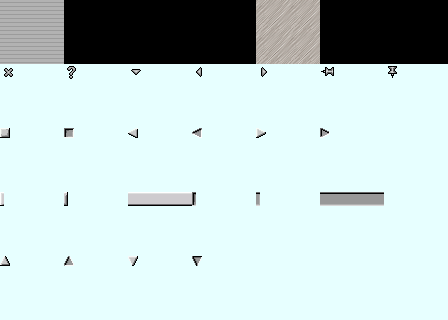
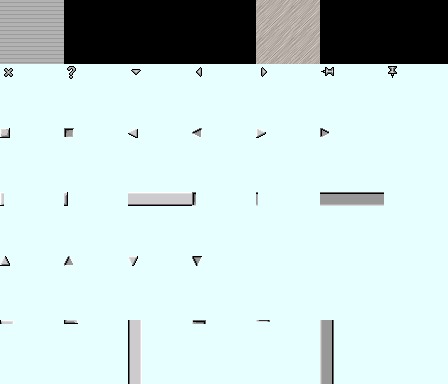
ADD: skinnable scrollbars
git-svn-id: svn://localhost/simutrans/trunk@3466 8aca7d54-2c30-db11-9de9-000461428c89

diff --git a/gui/components/gui_button.cc b/gui/components/gui_button.cc
@@ -64,6 +64,24 @@ image_id button_t::b_cap_left_p = IMG_LEER;
 image_id button_t::b_body_p = IMG_LEER;
 image_id button_t::b_cap_right_p = IMG_LEER;
 
+// these are optional: scrollbar ids
+image_id button_t::scrollbar_left = IMG_LEER;
+image_id button_t::scrollbar_right = IMG_LEER;
+image_id button_t::scrollbar_middle = IMG_LEER;
+
+image_id button_t::scrollbar_slider_left = IMG_LEER;
+image_id button_t::scrollbar_slider_right = IMG_LEER;
+image_id button_t::scrollbar_slider_middle = IMG_LEER;
+
+// these are optional: ... and scrollbars vertical
+image_id button_t::scrollbar_top = IMG_LEER;
+image_id button_t::scrollbar_bottom = IMG_LEER;
+image_id button_t::scrollbar_center = IMG_LEER;
+
+image_id button_t::scrollbar_slider_top = IMG_LEER;
+image_id button_t::scrollbar_slider_bottom = IMG_LEER;
+image_id button_t::scrollbar_slider_center = IMG_LEER;
+
 
 /**
  * Lazy button image number init
@@ -95,6 +113,23 @@ void button_t::init_button_images()
 
 		arrow_down_normal = skinverwaltung_t::window_skin->get_bild_nr(20);
 		arrow_down_pushed = skinverwaltung_t::window_skin->get_bild_nr(21);
+
+		// scrollbars
+		scrollbar_left = skinverwaltung_t::window_skin->get_bild_nr(24);
+		scrollbar_right = skinverwaltung_t::window_skin->get_bild_nr(25);
+		scrollbar_middle = skinverwaltung_t::window_skin->get_bild_nr(26);
+
+		scrollbar_slider_left = skinverwaltung_t::window_skin->get_bild_nr(27);
+		scrollbar_slider_right = skinverwaltung_t::window_skin->get_bild_nr(28);
+		scrollbar_slider_middle = skinverwaltung_t::window_skin->get_bild_nr(29);
+
+		scrollbar_top = skinverwaltung_t::window_skin->get_bild_nr(30);
+		scrollbar_bottom = skinverwaltung_t::window_skin->get_bild_nr(31);
+		scrollbar_center = skinverwaltung_t::window_skin->get_bild_nr(32);
+
+		scrollbar_slider_top = skinverwaltung_t::window_skin->get_bild_nr(33);
+		scrollbar_slider_bottom = skinverwaltung_t::window_skin->get_bild_nr(34);
+		scrollbar_slider_center = skinverwaltung_t::window_skin->get_bild_nr(35);
 	}
 }
 
@@ -148,7 +183,7 @@ void button_t::draw_roundbutton(sint16 x, sint16 y, sint16 w, sint16 h, bool pre
 		// first the center (may need extra clipping)
 		if(w-lw-rw<64) {
 			struct clip_dimension cl=display_get_clip_wh();
-			display_set_clip_wh(cl.x, cl.y, max(0,min(x+w-rw-cl.x,cl.xx)-x), cl.h );
+			display_set_clip_wh(cl.x, cl.y, max(0,min(x+w-rw,cl.xx)-cl.x), cl.h );
 			display_button_image(x+lw, y, RB_BODY_BUTTON, pressed);
 			display_set_clip_wh(cl.x, cl.y, cl.w, cl.h );
 		}
@@ -192,6 +227,57 @@ void button_t::draw_roundbutton(sint16 x, sint16 y, sint16 w, sint16 h, bool pre
 }
 
 
+
+void button_t::draw_scrollbar(sint16 x, sint16 y, sint16 w, sint16 h, bool horizontal, bool slider)
+{
+	if(  scrollbar_left!=IMG_LEER  ) {
+		if(  horizontal  ) {
+			const int image_offset = 24 + (slider ? 3 : 0);
+			const sint16 lw = skinverwaltung_t::window_skin->get_bild(image_offset)->get_pic()->w;
+			const sint16 rw = skinverwaltung_t::window_skin->get_bild(image_offset+1)->get_pic()->w;
+			// first the center (may need extra clipping)
+			if(w-lw-rw<64) {
+				struct clip_dimension cl=display_get_clip_wh();
+				display_set_clip_wh(cl.x, cl.y, max(0,min(x+w-rw,cl.xx)-cl.x), cl.h );
+				display_color_img(skinverwaltung_t::window_skin->get_bild_nr(image_offset+2), x+lw, y, 0, false, true);
+				display_set_clip_wh(cl.x, cl.y, cl.w, cl.h );
+			}
+			else {
+				// wider buttons
+				for( sint16 j=0;  j+64<w-rw-lw;  j+=64) {
+					display_color_img(skinverwaltung_t::window_skin->get_bild_nr(image_offset+2), x+j+lw, y, 0, false, true);
+				}
+				display_color_img(skinverwaltung_t::window_skin->get_bild_nr(image_offset+2), x+w-rw-64, y, 0, false, true);
+			}
+			// now the begin and end ...
+			display_color_img(skinverwaltung_t::window_skin->get_bild_nr(image_offset+0), x, y, 0, false, true);
+			display_color_img(skinverwaltung_t::window_skin->get_bild_nr(image_offset+1), x+w-rw, y, 0, false, true);
+		}
+		else {
+			// vertical bar ...
+			const int image_offset = 30 + (slider ? 3 : 0);
+			const sint16 lh = skinverwaltung_t::window_skin->get_bild(image_offset)->get_pic()->h;
+			const sint16 rh = skinverwaltung_t::window_skin->get_bild(image_offset+1)->get_pic()->h;
+			// first the center (may need extra clipping)
+			if(h-lh-rh<64) {
+				struct clip_dimension cl=display_get_clip_wh();
+				display_set_clip_wh(cl.x, cl.y, cl.xx, max(0,min(y+h-rh,cl.yy)-cl.y) );
+				display_color_img(skinverwaltung_t::window_skin->get_bild_nr(image_offset+2), x, y+lh, 0, false, true);
+				display_set_clip_wh(cl.x, cl.y, cl.w, cl.h );
+			}
+			else {
+				// wider buttons
+				for( sint16 j=0;  j+64<h-rh-lh;  j+=64) {
+					display_color_img(skinverwaltung_t::window_skin->get_bild_nr(image_offset+2), x, y+lh+j, 0, false, true);
+				}
+				display_color_img(skinverwaltung_t::window_skin->get_bild_nr(image_offset+2), x, y+h-rh-64, 0, false, true);
+			}
+			// now the begin and end ...
+			display_color_img(skinverwaltung_t::window_skin->get_bild_nr(image_offset+0), x, y, 0, false, true);
+			display_color_img(skinverwaltung_t::window_skin->get_bild_nr(image_offset+1), x, y+h-rh, 0, false, true);
+		}
+	}
+}
 
 button_t::button_t()
 {
@@ -447,40 +533,44 @@ void button_t::zeichnen(koord offset)
 			display_button_image(bx, by, ARROW_DOWN, pressed);
 			break;
 
-		case scrollbar:
+		case scrollbar_horizontal:
+		case scrollbar_vertical:
 			// new 3d-look scrollbar knob
-			mark_rect_dirty_wc(bx, by, bx+bw-1, by+bh-1);
-#if 1
-			// use own 3D like routines
-			if (pressed) {
-				display_fillbox_wh_clip(bx+2, by+2, bw-3, bh-3, MN_GREY1, false);
-				display_vline_wh_clip  (bx+2, by+3, 2,   MN_GREY0, false);
-				display_fillbox_wh_clip(bx+2, by+2, 3,1, MN_GREY0, false);
-				display_vline_wh_clip  (bx+1, by+2, bh-3,   COL_BLACK, false);
-				display_fillbox_wh_clip(bx+1, by+1, bw-2,1, COL_BLACK, false);
-				display_vline_wh_clip  (bx+bw-2, by+3, bh-5,   MN_GREY2, false);
-				display_fillbox_wh_clip(bx+3, by+bh-2, bw-4,1, MN_GREY2, false);
-				display_vline_wh_clip  (bx, by+1, bh-2, MN_GREY0, false);
-				display_fillbox_wh_clip(bx, by, bw-1,1, MN_GREY0, false);
-				display_vline_wh_clip  (bx+bw-1, by, bh,   COL_WHITE, false);
-				display_fillbox_wh_clip(bx, by+bh-1, bw,1, COL_WHITE, false);
+			// pressed: background
+			if(  scrollbar_left==IMG_LEER  ) {
+				mark_rect_dirty_wc(bx, by, bx+bw-1, by+bh-1);
+				// use own 3D like routines
+				if (pressed) {
+					// slider is pressed button ...
+					display_fillbox_wh_clip(bx+2, by+2, bw-3, bh-3, MN_GREY1, false);
+					display_vline_wh_clip  (bx+2, by+3, 2,   MN_GREY0, false);
+					display_fillbox_wh_clip(bx+2, by+2, 3,1, MN_GREY0, false);
+					display_vline_wh_clip  (bx+1, by+2, bh-3,   COL_BLACK, false);
+					display_fillbox_wh_clip(bx+1, by+1, bw-2,1, COL_BLACK, false);
+					display_vline_wh_clip  (bx+bw-2, by+3, bh-5,   MN_GREY2, false);
+					display_fillbox_wh_clip(bx+3, by+bh-2, bw-4,1, MN_GREY2, false);
+					display_vline_wh_clip  (bx, by+1, bh-2, MN_GREY0, false);
+					display_fillbox_wh_clip(bx, by, bw-1,1, MN_GREY0, false);
+					display_vline_wh_clip  (bx+bw-1, by, bh,   COL_WHITE, false);
+					display_fillbox_wh_clip(bx, by+bh-1, bw,1, COL_WHITE, false);
+				}
+				else {
+					display_fillbox_wh_clip(bx+1, by+1, bw-3, bh-3, MN_GREY3, false);
+					display_vline_wh_clip  (bx+bw-3, by+bh-5, 2,   MN_GREY1, false);
+					display_fillbox_wh_clip(bx+bw-5, by+bh-3, 3,1, MN_GREY1, false);
+					display_vline_wh_clip  (bx+1, by+2, bh-5,   MN_GREY4, false);
+					display_fillbox_wh_clip(bx+1, by+1, bw-4,1, MN_GREY4, false);
+					display_vline_wh_clip  (bx+bw-2, by+1, bh-3,   MN_GREY0, false);
+					display_fillbox_wh_clip(bx+1, by+bh-2, bw-2,1, MN_GREY0, false);
+					display_vline_wh_clip  (bx, by+1, bh-2, COL_WHITE, false);
+					display_fillbox_wh_clip(bx, by, bw-1,1, COL_WHITE, false);
+					display_vline_wh_clip  (bx+bw-1, by, bh,   COL_BLACK, false);
+					display_fillbox_wh_clip(bx, by+bh-1, bw,1, COL_BLACK, false);
+				}
 			}
 			else {
-				display_fillbox_wh_clip(bx+1, by+1, bw-3, bh-3, MN_GREY3, false);
-				display_vline_wh_clip  (bx+bw-3, by+bh-5, 2,   MN_GREY1, false);
-				display_fillbox_wh_clip(bx+bw-5, by+bh-3, 3,1, MN_GREY1, false);
-				display_vline_wh_clip  (bx+1, by+2, bh-5,   MN_GREY4, false);
-				display_fillbox_wh_clip(bx+1, by+1, bw-4,1, MN_GREY4, false);
-				display_vline_wh_clip  (bx+bw-2, by+1, bh-3,   MN_GREY0, false);
-				display_fillbox_wh_clip(bx+1, by+bh-2, bw-2,1, MN_GREY0, false);
-				display_vline_wh_clip  (bx, by+1, bh-2, COL_WHITE, false);
-				display_fillbox_wh_clip(bx, by, bw-1,1, COL_WHITE, false);
-				display_vline_wh_clip  (bx+bw-1, by, bh,   COL_BLACK, false);
-				display_fillbox_wh_clip(bx, by+bh-1, bw,1, COL_BLACK, false);
+				draw_scrollbar( bx, by, bw, bh, (type&STATE_MASK)==scrollbar_horizontal, !pressed );
 			}
-#else
-			draw_roundbutton( bx, by, bw, bh, pressed );
-#endif
 		break;
 	}
 
@@ -507,7 +597,8 @@ gui_komponente_t *button_t::get_focus() const
 		case posbutton:
 		case arrowup:
 		case arrowdown:
-		case scrollbar:
+		case scrollbar_horizontal:
+		case scrollbar_vertical:
 			break;
 	}
 	return NULL;

diff --git a/gui/components/gui_scrollbar.cc b/gui/components/gui_scrollbar.cc
@@ -12,6 +12,9 @@
 #include "../../simcolor.h"
 #include "../../simgraph.h"
 
+#include "../../simskin.h"
+#include "../../besch/skin_besch.h"
+
 
 #define BAR_WIDTH (12)
 
@@ -26,19 +29,19 @@ scrollbar_t::scrollbar_t(enum type type) :
 		groesse = koord(10,40);
 		button_def[0].set_typ(button_t::arrowup);
 		button_def[1].set_typ(button_t::arrowdown);
+		button_def[2].set_typ(button_t::scrollbar_vertical);
+		button_def[3].set_typ(button_t::scrollbar_vertical);
 	}
 	else { // horizontal
 		groesse = koord(40,10);
 		button_def[0].set_typ(button_t::arrowleft);
 		button_def[1].set_typ(button_t::arrowright);
+		button_def[2].set_typ(button_t::scrollbar_horizontal);
+		button_def[3].set_typ(button_t::scrollbar_horizontal);
 	}
 
 	button_def[0].set_pos(koord(0,0));
 	button_def[1].set_pos(koord(0,0));
-//	button_def[2].set_typ(button_t::roundbox);
-//	button_def[3].set_typ(button_t::roundbox);
-	button_def[2].set_typ(button_t::scrollbar);
-	button_def[3].set_typ(button_t::scrollbar);
 	reposition_buttons();
 }
 
@@ -85,11 +88,13 @@ void scrollbar_t::reposition_buttons()
 
 	sint32 offset = (sint32)( (float)knob_offset * ratio +.5 );
 	sint32 size   = (sint32)( (float)knob_size   * ratio +.5 );
-	//if (knob_area < knob_size) { offset = 0; }
 
 	if (type == vertical) {
 		button_def[1].set_pos( koord(0,groesse.y-12) );
 		button_def[2].set_pos( koord(0,12+offset) );
+		if(  button_t::scrollbar_left!=IMG_LEER  ) {
+			size = max( size, skinverwaltung_t::window_skin->get_bild(33)->get_pic()->h+skinverwaltung_t::window_skin->get_bild(34)->get_pic()->h );
+		}
 		button_def[2].set_groesse( koord(BUTTON_HEIGHT,size) );
 		button_def[3].set_pos( koord(0,12) );
 		button_def[3].set_groesse( koord(BUTTON_HEIGHT,groesse.y-24) );
@@ -97,6 +102,9 @@ void scrollbar_t::reposition_buttons()
 	else { // horizontal
 		button_def[1].set_pos( koord(groesse.x-10,0) );
 		button_def[2].set_pos( koord(12+offset,0) );
+		if(  button_t::scrollbar_left!=IMG_LEER  ) {
+			size = max( size, skinverwaltung_t::window_skin->get_bild(27)->get_pic()->w+skinverwaltung_t::window_skin->get_bild(28)->get_pic()->w );
+		}
 		button_def[2].set_groesse( koord(size,BUTTON_HEIGHT) );
 		button_def[3].set_pos( koord(12,0) );
 		button_def[3].set_groesse( koord(groesse.x-24,BUTTON_HEIGHT) );

diff --git a/gui/components/gui_button.h b/gui/components/gui_button.h
@@ -48,6 +48,24 @@ public:
 	static image_id b_body_p;
 	static image_id b_cap_right_p;
 
+	// these are optional: scrollbars horizontal ...
+	static image_id scrollbar_left;
+	static image_id scrollbar_right;
+	static image_id scrollbar_middle;
+
+	static image_id scrollbar_slider_left;
+	static image_id scrollbar_slider_right;
+	static image_id scrollbar_slider_middle;
+
+	// these are optional: ... and scrollbars vertical
+	static image_id scrollbar_top;
+	static image_id scrollbar_bottom;
+	static image_id scrollbar_center;
+
+	static image_id scrollbar_slider_top;
+	static image_id scrollbar_slider_bottom;
+	static image_id scrollbar_slider_center;
+
 	/* the button with the postfix state do not automatically change their state like the normal button do
 	 * the _state buttons must be changed by the caller!
 	 * _automatic buttons do eveything themselves, i.e. depress/release alternately
@@ -60,8 +78,8 @@ public:
 	 * scrollbar: well you guess it. Not used by gui_frame_t things ...
 	 */
 	enum type {
-		square=1, box, roundbox, arrowleft, arrowright, arrowup, arrowdown, scrollbar, repeatarrowleft, repeatarrowright, posbutton,
-		square_state=129, box_state, roundbox_state, arrowleft_state, arrowright_state, arrowup_state, arrowdown_state, scrollbar_state, repeatarrowleft_state, repeatarrowright_state,
+		square=1, box, roundbox, arrowleft, arrowright, arrowup, arrowdown, scrollbar_horizontal, scrollbar_vertical, repeatarrowleft, repeatarrowright, posbutton,
+		square_state=129, box_state, roundbox_state, arrowleft_state, arrowright_state, arrowup_state, arrowdown_state, scrollbar_horizontal_state, scrollbar_vertical_state, repeatarrowleft_state, repeatarrowright_state,
 		square_automatic=257
 	};
 
@@ -97,6 +115,9 @@ private:
 
 	// draw a rectangular button
 	void draw_roundbutton(sint16 x, sint16 y, sint16 w, sint16 h, bool pressed);
+
+	// scrollbar either skinned or simple
+	void draw_scrollbar(sint16 x, sint16 y, sint16 w, sint16 h, bool horizontal, bool slider);
 
 public:
 	static void init_button_images();	// must be called at least once after loading skins
